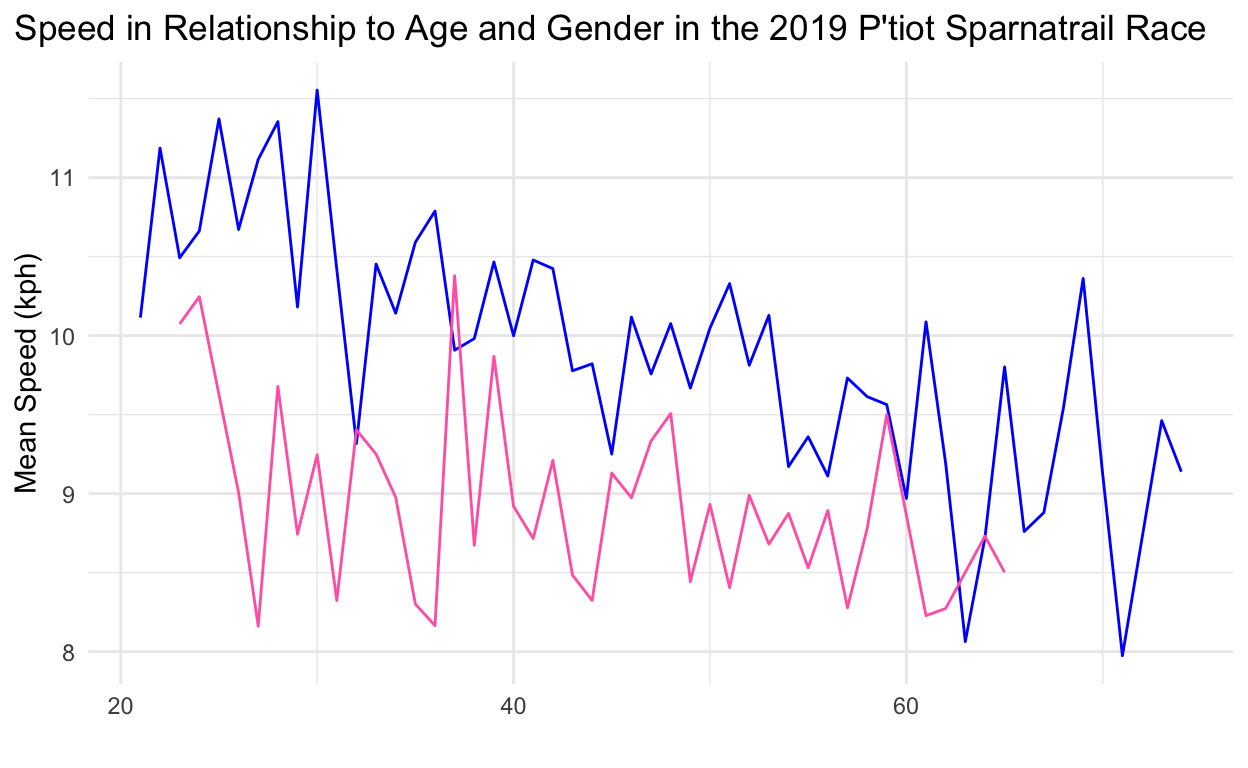
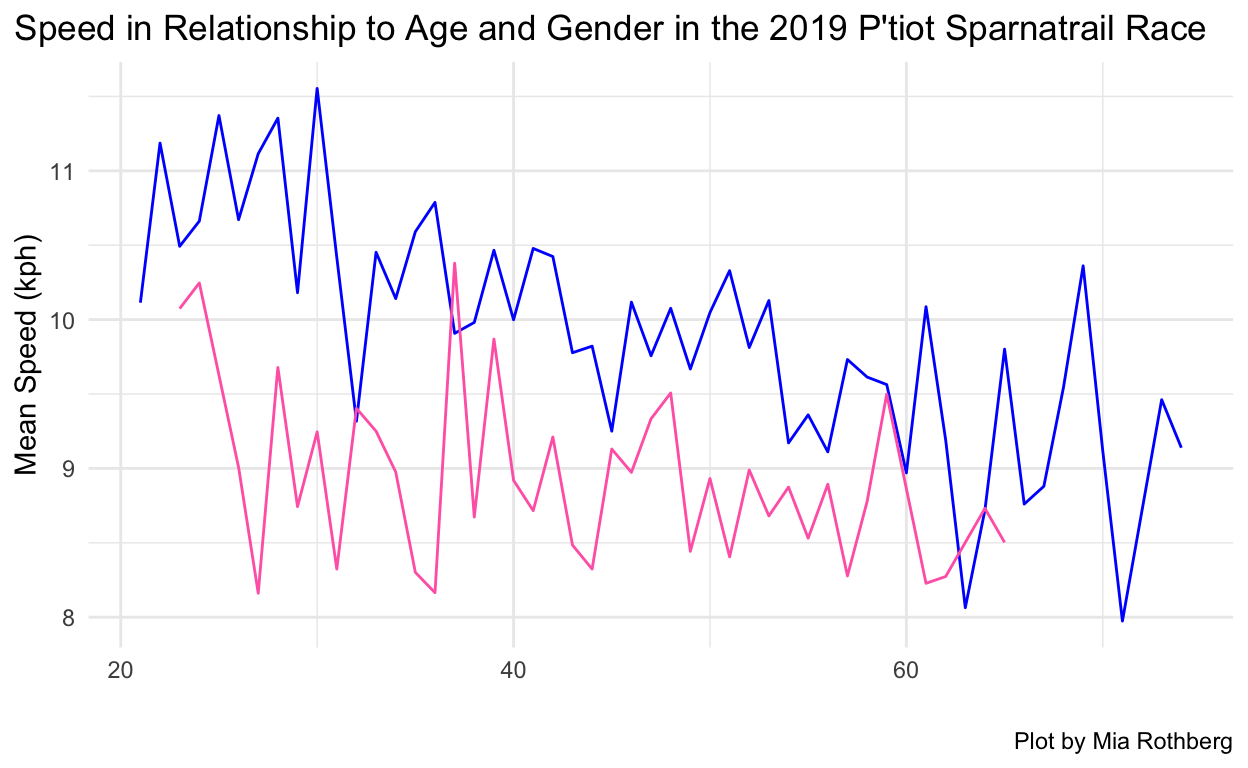
plot caption

diff --git a/_posts/2021-10-26-tidytuesday5/tidytuesday5.html b/_posts/2021-10-26-tidytuesday5/tidytuesday5.html
@@ -1485,6 +1485,7 @@ code span.wa { color: #5e5e5e; font-style: italic; } /* Warning */
 <span class='kw'><a href='https://rdrr.io/r/base/library.html'>library</a></span><span class='op'>(</span><span class='va'><a href='https://github.com/jrnold/ggthemes'>ggthemes</a></span><span class='op'>)</span>      <span class='co'># for even more plotting themes</span>
 <span class='kw'><a href='https://rdrr.io/r/base/library.html'>library</a></span><span class='op'>(</span><span class='va'><a href='https://strengejacke.github.io/sjmisc/'>sjmisc</a></span><span class='op'>)</span>
 <span class='kw'><a href='https://rdrr.io/r/base/library.html'>library</a></span><span class='op'>(</span><span class='va'><a href='https://scales.r-lib.org'>scales</a></span><span class='op'>)</span>
+<span class='kw'><a href='https://rdrr.io/r/base/library.html'>library</a></span><span class='op'>(</span><span class='va'><a href='https://github.com/calligross/ggthemeassist'>ggThemeAssist</a></span><span class='op'>)</span>
 </code></pre>
 </div>
 </div>
@@ -1513,7 +1514,8 @@ code span.wa { color: #5e5e5e; font-style: italic; } /* Warning */
   <span class='fu'>theme_minimal</span><span class='op'>(</span><span class='op'>)</span> <span class='op'>+</span>
   <span class='fu'>labs</span><span class='op'>(</span>x <span class='op'>=</span> <span class='st'>""</span>,
        y <span class='op'>=</span> <span class='st'>"Mean Speed (kph)"</span>,
-       title <span class='op'>=</span> <span class='st'>"Speed in Relationship to Age and Gender in the 2019 P'tiot Sparnatrail Race"</span><span class='op'>)</span> <span class='op'>+</span>
+       title <span class='op'>=</span> <span class='st'>"Speed in Relationship to Age and Gender in the 2019 P'tiot Sparnatrail Race"</span>,
+       caption <span class='op'>=</span> <span class='st'>"Plot by Mia Rothberg"</span><span class='op'>)</span> <span class='op'>+</span>
   <span class='fu'>theme</span><span class='op'>(</span>plot.title.position <span class='op'>=</span> <span class='st'>"plot"</span>,
         legend.position <span class='op'>=</span> <span class='st'>"none"</span><span class='op'>)</span>
 </code></pre>

diff --git a/_site/posts/2021-10-26-tidytuesday5/index.html b/_site/posts/2021-10-26-tidytuesday5/index.html
@@ -2418,6 +2418,7 @@ d-appendix d-footnote-list a.footnote-backlink {
 <span class='kw'><a href='https://rdrr.io/r/base/library.html'>library</a></span><span class='op'>(</span><span class='va'><a href='https://github.com/jrnold/ggthemes'>ggthemes</a></span><span class='op'>)</span>      <span class='co'># for even more plotting themes</span>
 <span class='kw'><a href='https://rdrr.io/r/base/library.html'>library</a></span><span class='op'>(</span><span class='va'><a href='https://strengejacke.github.io/sjmisc/'>sjmisc</a></span><span class='op'>)</span>
 <span class='kw'><a href='https://rdrr.io/r/base/library.html'>library</a></span><span class='op'>(</span><span class='va'><a href='https://scales.r-lib.org'>scales</a></span><span class='op'>)</span>
+<span class='kw'><a href='https://rdrr.io/r/base/library.html'>library</a></span><span class='op'>(</span><span class='va'><a href='https://github.com/calligross/ggthemeassist'>ggThemeAssist</a></span><span class='op'>)</span>
 </code></pre>
 </div>
 </div>
@@ -2446,7 +2447,8 @@ d-appendix d-footnote-list a.footnote-backlink {
   <span class='fu'>theme_minimal</span><span class='op'>(</span><span class='op'>)</span> <span class='op'>+</span>
   <span class='fu'>labs</span><span class='op'>(</span>x <span class='op'>=</span> <span class='st'>""</span>,
        y <span class='op'>=</span> <span class='st'>"Mean Speed (kph)"</span>,
-       title <span class='op'>=</span> <span class='st'>"Speed in Relationship to Age and Gender in the 2019 P'tiot Sparnatrail Race"</span><span class='op'>)</span> <span class='op'>+</span>
+       title <span class='op'>=</span> <span class='st'>"Speed in Relationship to Age and Gender in the 2019 P'tiot Sparnatrail Race"</span>,
+       caption <span class='op'>=</span> <span class='st'>"Plot by Mia Rothberg"</span><span class='op'>)</span> <span class='op'>+</span>
   <span class='fu'>theme</span><span class='op'>(</span>plot.title.position <span class='op'>=</span> <span class='st'>"plot"</span>,
         legend.position <span class='op'>=</span> <span class='st'>"none"</span><span class='op'>)</span>
 </code></pre>
